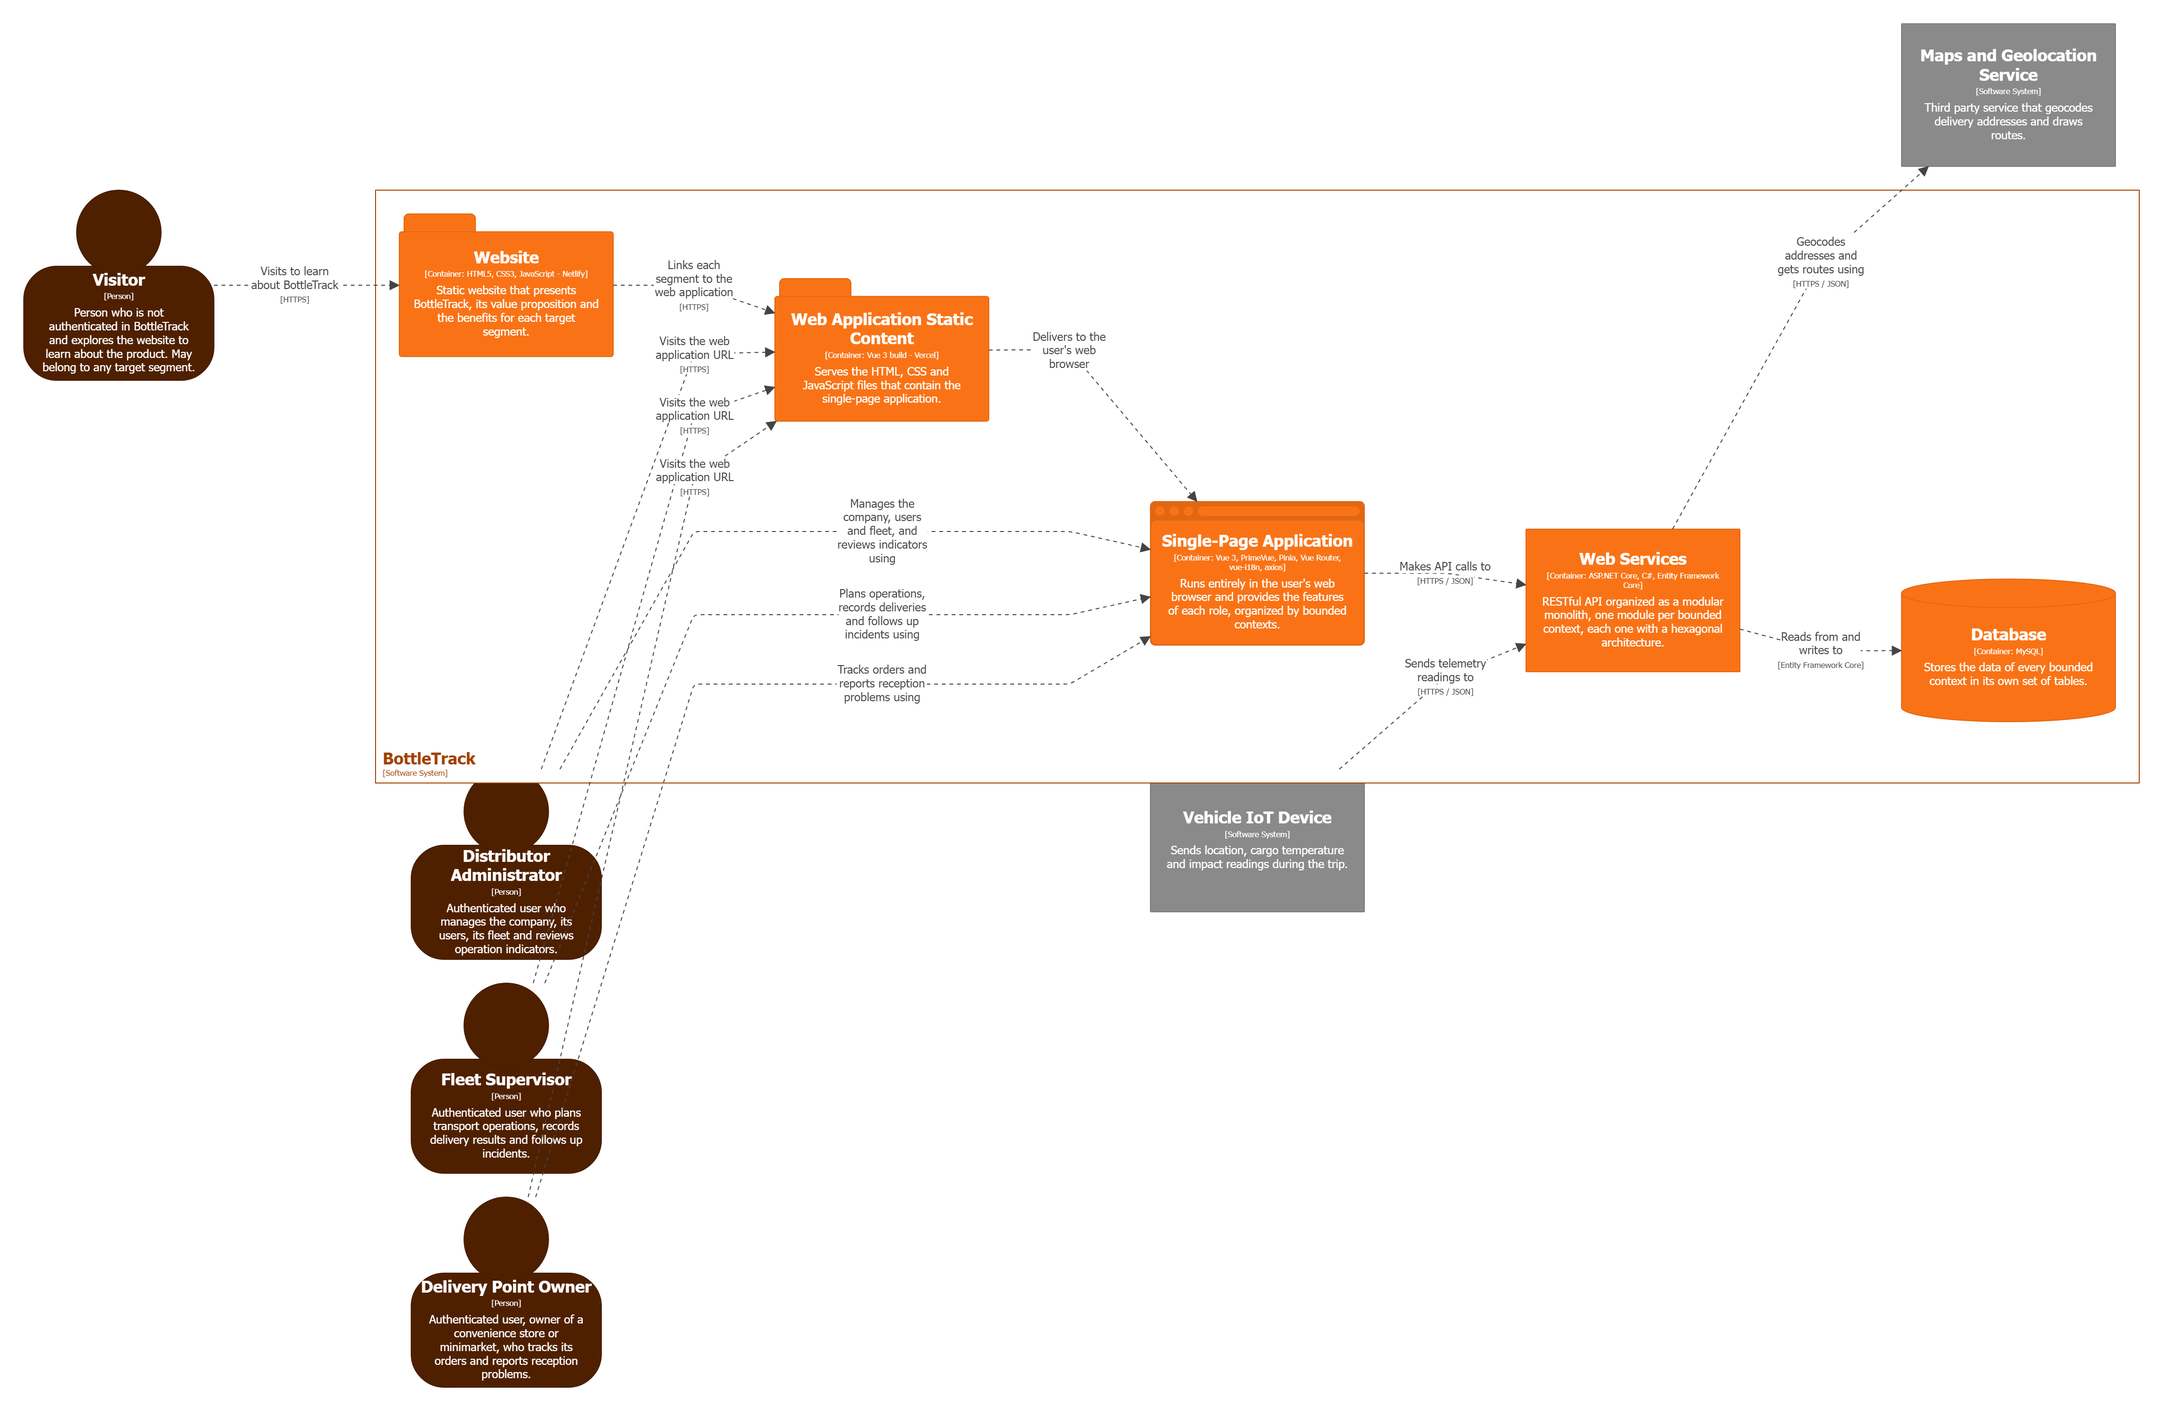
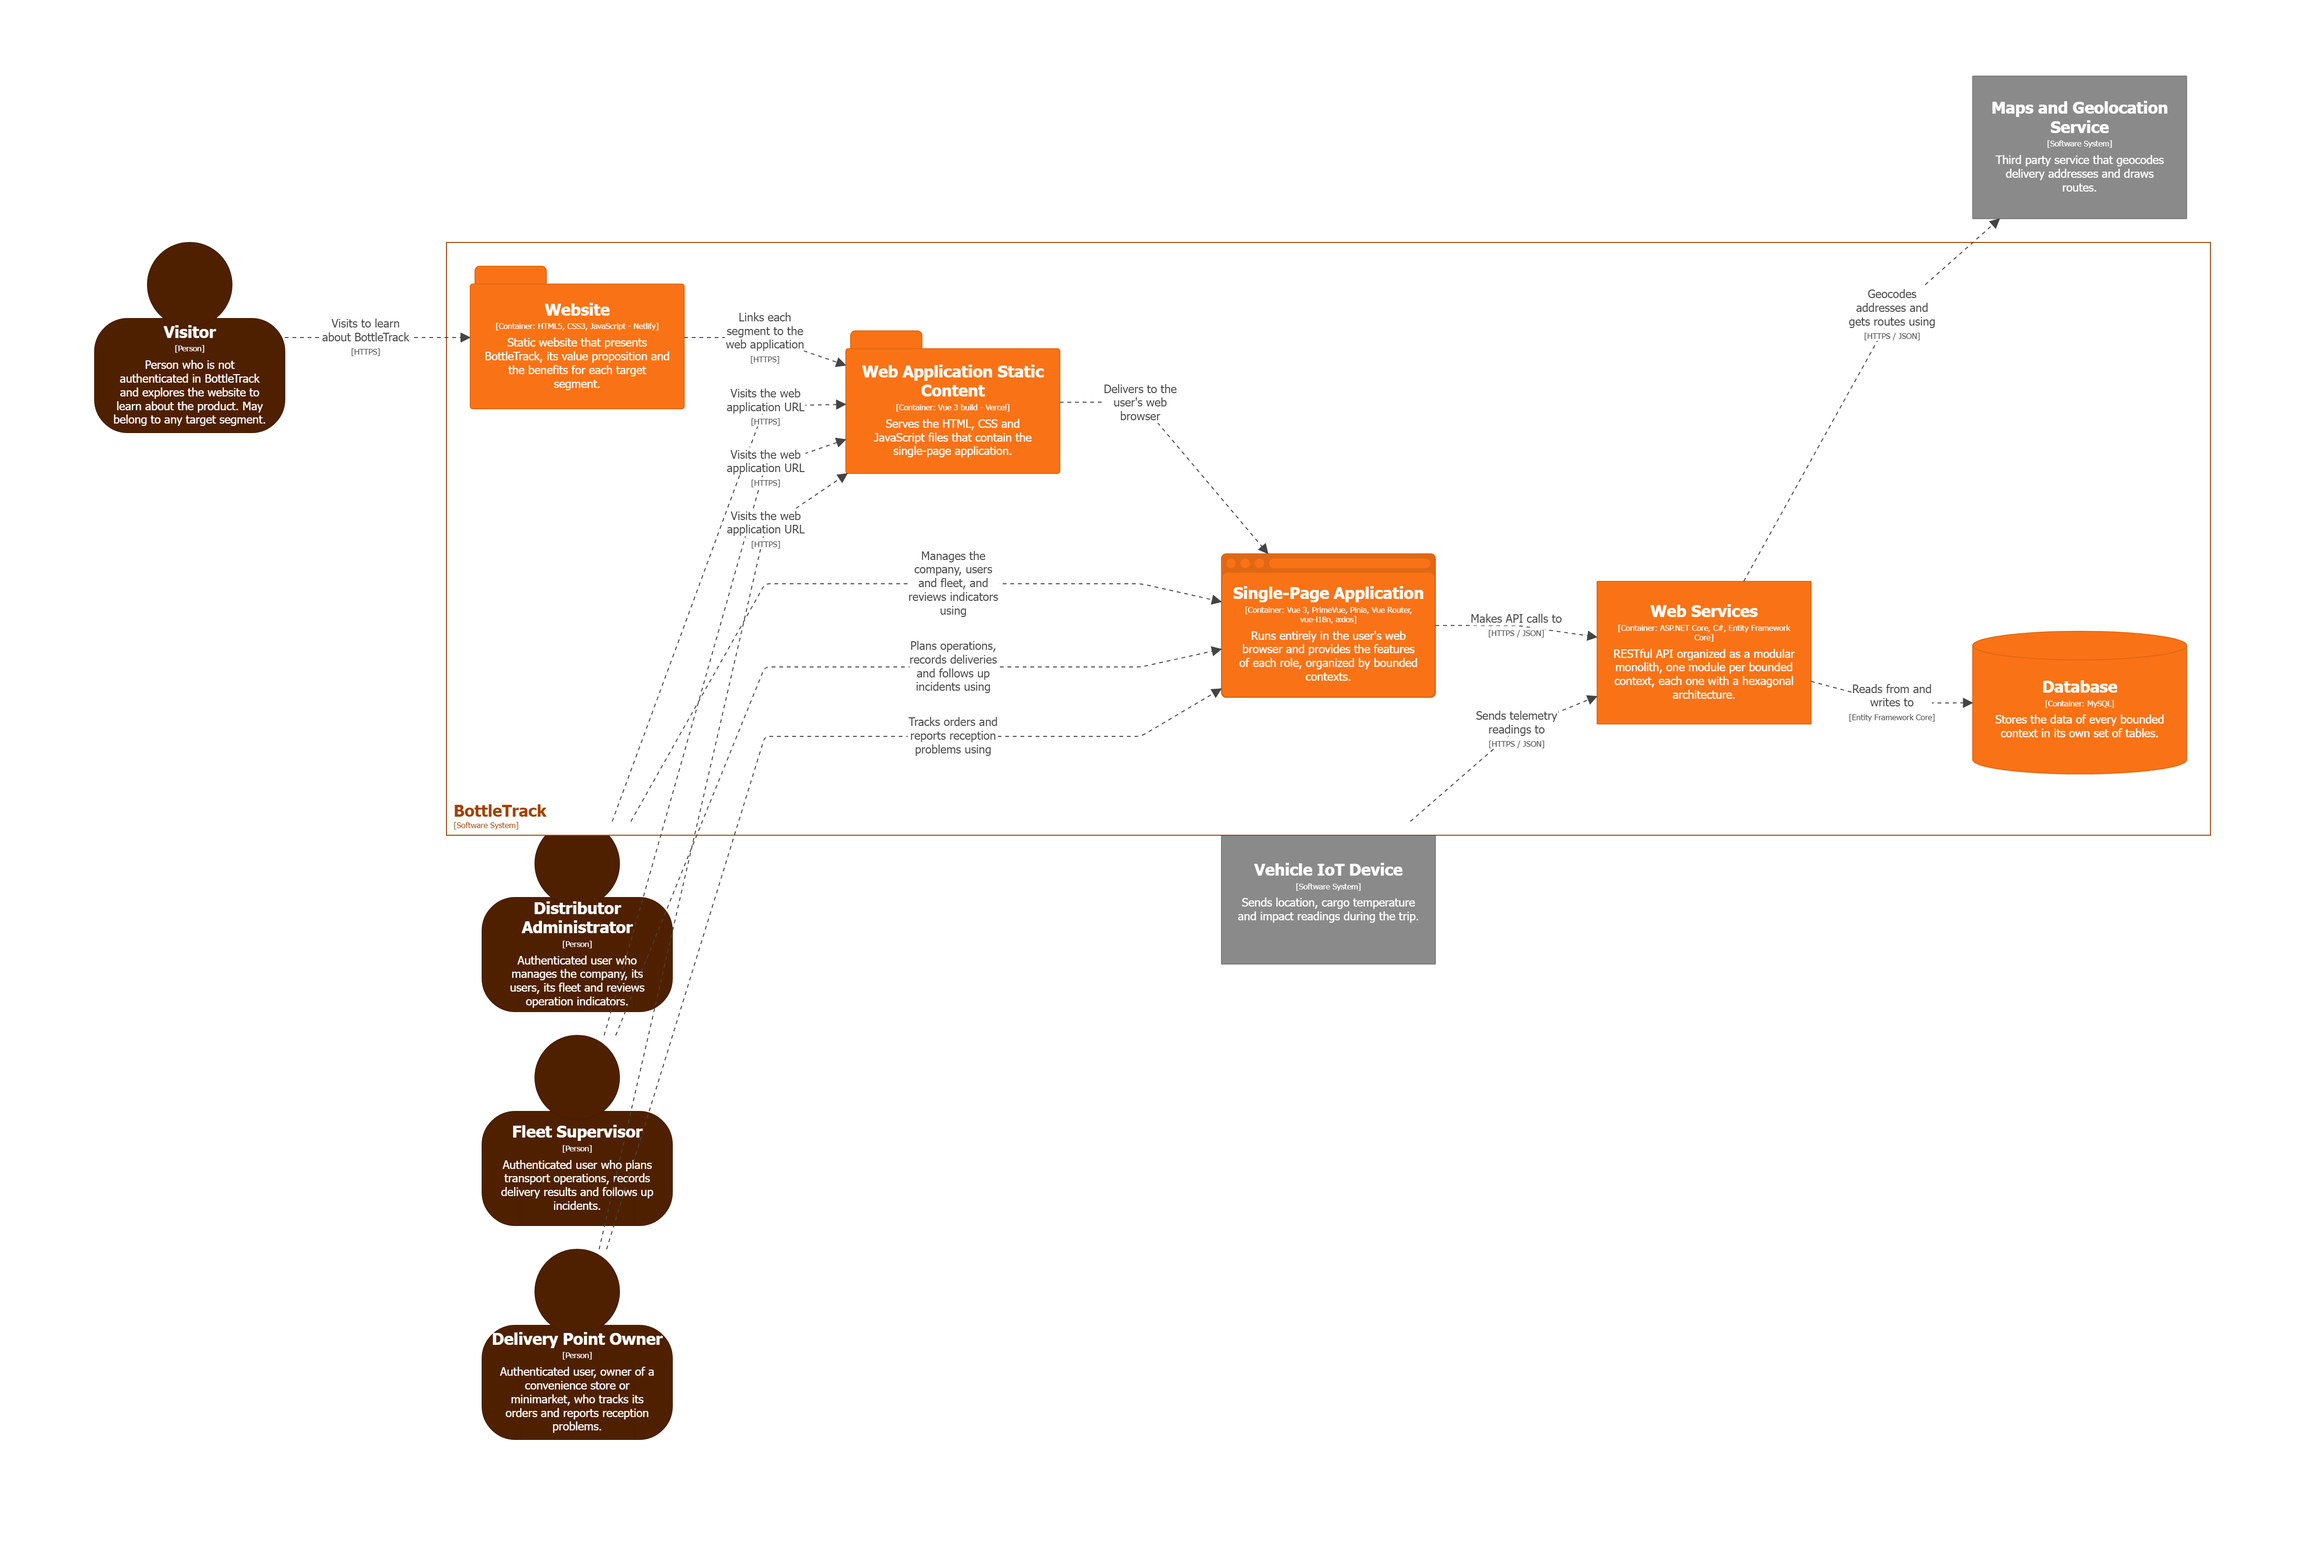
fix(report): update context and container diagrams with the five contexts

diff --git a/report/40-chapter-4-product-design.md b/report/40-chapter-4-product-design.md
@@ -693,12 +693,12 @@ El Backend API se organiza como un **monolito modular**: un solo despliegue con 
 
 | Capa | Contenido | Rol en la arquitectura hexagonal |
 | :--- | :-------- | :------------------------------- |
-| Interfaces | Controllers REST y manejadores de eventos | Adaptadores de entrada |
+| Interfaces | Controllers REST; los manejadores de eventos están planificados | Adaptadores de entrada |
 | Application | Command Services y Query Services | Implementan los puertos de entrada y orquestan los casos de uso |
-| Domain | Agregados, entidades, value objects, eventos de dominio e interfaces de repositorio | Núcleo del negocio, sin dependencias de frameworks. Declara los puertos de salida |
-| Infrastructure | Repositorios con Entity Framework Core, cliente del servicio de mapas, emisión de tokens | Adaptadores de salida que implementan los puertos del dominio |
+| Domain | Agregados, entidades, value objects e interfaces de repositorio; los eventos de dominio están planificados | Núcleo del negocio, sin dependencias de frameworks. Declara los puertos de salida |
+| Infrastructure | Repositorios con Entity Framework Core, cálculo del hash de contraseñas y emisión de tokens JWT; el cliente del servicio de mapas está planificado | Adaptadores de salida que implementan los puertos del dominio |
 
-Los bounded contexts no acceden a las tablas de los demás. Se comunican a través de **facades** (por ejemplo, Operations and Routes reserva un vehículo mediante la facade de Fleet Management) o de **eventos de dominio** (IoT Monitoring publica `AlertRaised` e Incident Management abre una incidencia).
+Los bounded contexts no acceden a las tablas de los demás. Se comunican a través de **facades** (por ejemplo, Operations and Routes reserva un vehículo mediante la facade de Fleet Management) o de **eventos de dominio** (IoT Monitoring publica `AlertRaised` e Incident Management abre una incidencia). Estos mecanismos de comunicación están planificados: en la versión actual de los Web Services cada contexto referencia a los demás solo por su identificador, como `VehicleId` o `TransportOperationId`.
 
 <a id="461-design-level-event-storming"></a>
 
@@ -716,7 +716,7 @@ El tablero se encuentra disponible en: https://miro.com/welcomeonboard/aEpQNnI1b
 
 El diagrama de contexto muestra a BottleTrack como una caja negra y su relación con las personas y los sistemas externos. Sus usuarios son el administrador de la distribuidora, el supervisor de flota y el responsable de la bodega. El conductor aparece como actor del dominio que reporta al supervisor, pero no usa la aplicación. Los sistemas externos son los dispositivos IoT instalados en los vehículos y el servicio de mapas y geolocalización, que constituye el servicio de terceros que consume la solución.
 
-Los diagramas C4 se elaboraron con Structurizr DSL; el código fuente de cada diagrama se encuentra junto a su imagen ...en la carpeta `report/assets/DD-SoftwareArchitecture` del repositorio.
+Los diagramas C4 se elaboraron con Structurizr DSL y se renderizaron con Structurizr Playground (https://playground.structurizr.com). El código fuente de todos los diagramas (`containerDiagram.txt`) se encuentra junto a sus imágenes en la carpeta `report/assets/DD-SoftwareArchitecture` del repositorio.
 
 <img src="assets/DD-SoftwareArchitecture/contextDiagram.png" alt="Diagrama de contexto C4 de BottleTrack" width="800">
 
@@ -731,7 +731,7 @@ El diagrama de contenedores muestra las unidades desplegables de la solución:
 | Website | HTML5, CSS3, JavaScript | Netlify (contenido estático) |
 | Web Application Static Content | Archivos HTML, CSS y JavaScript generados por el build de Vue 3 | Vercel (contenido estático) |
 | Single-Page Application | Vue 3, PrimeVue, Pinia, Vue Router, vue-i18n, axios | Navegador del usuario |
-| Web Services | ASP.NET Core (.NET 10), C#, Entity Framework Core, documentado con OpenAPI y Scalar | Proveedor de nube (monolito) |
+| Web Services | ASP.NET Core (.NET 10), C#, Entity Framework Core, documentado con OpenAPI y Swagger UI | Proveedor de nube (monolito) |
 | Database | MySQL | Proveedor de nube |
 
 El Website y la Web Application son dos productos distintos y ambos se despliegan como contenido estático, es decir, como una copia de carpetas con archivos HTML, CSS y JavaScript hacia un hosting. Por eso el diagrama los representa con el contenedor de tipo carpeta.
